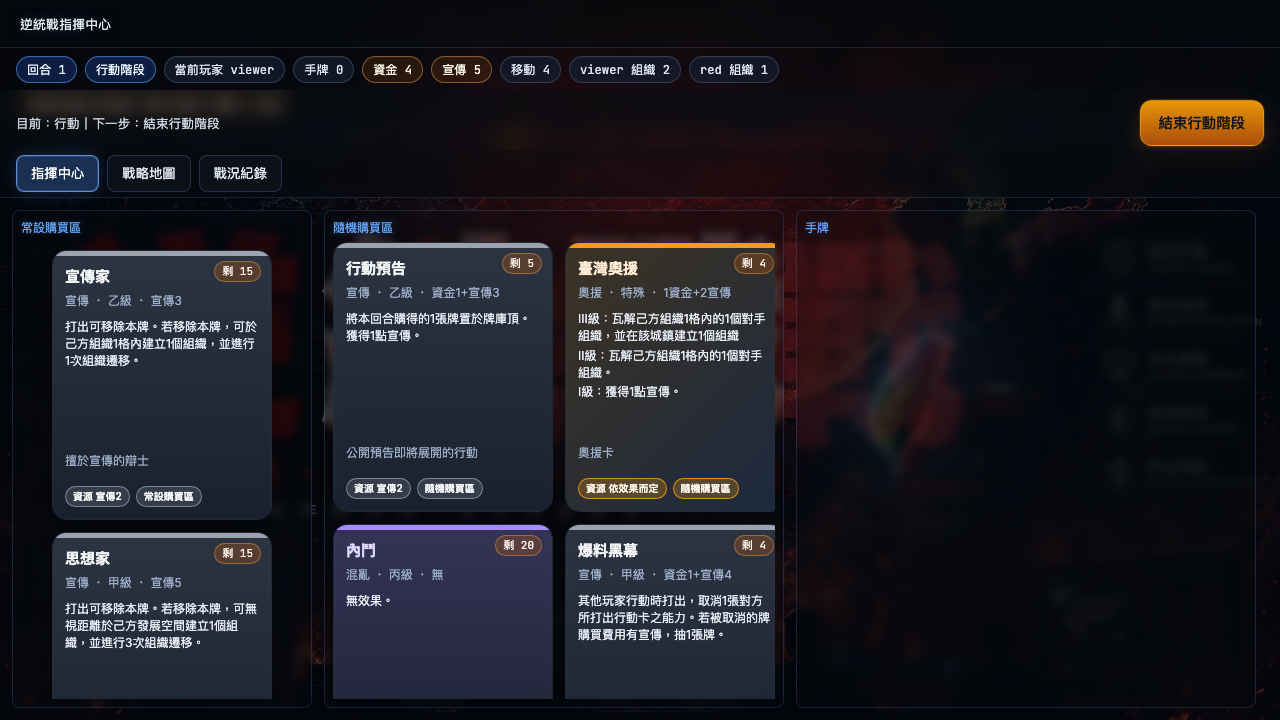
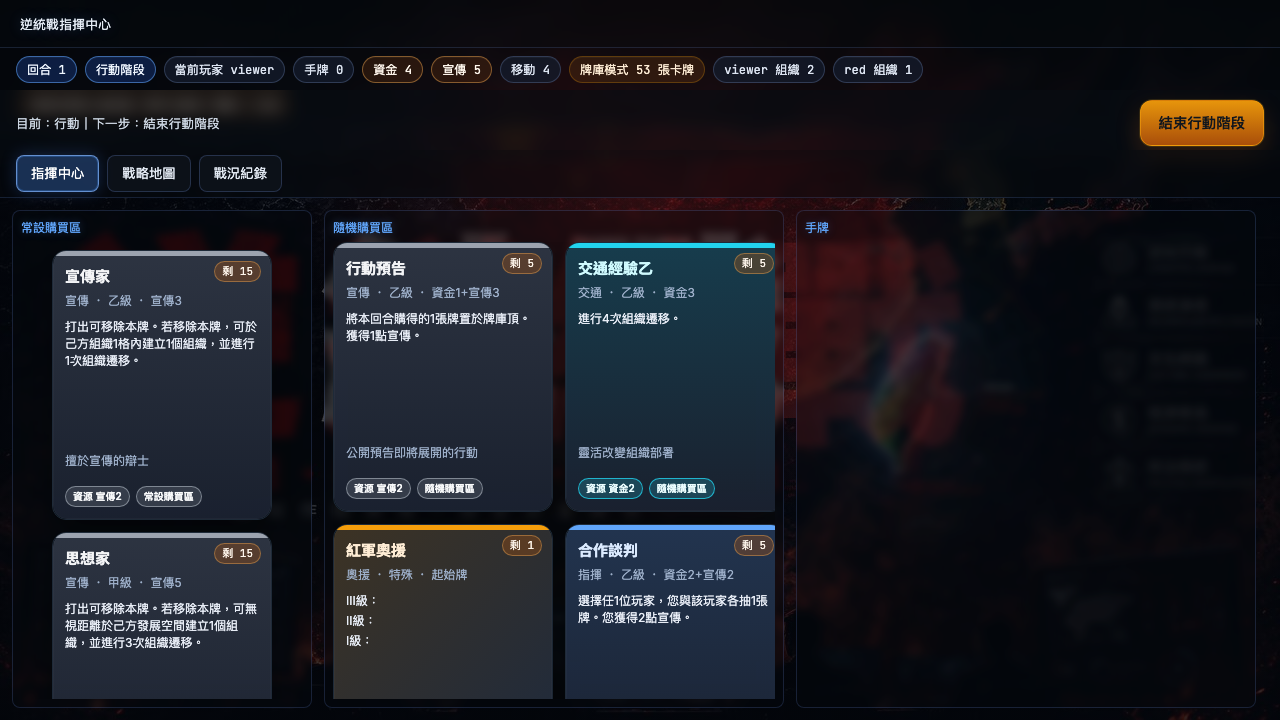
Show market mode in HUD and refresh verification

Changed region(s): [[0.25, 0.6111, 0.625, 0.9167], [0.4375, 0.3361, 0.625, 0.5806], [0.4375, 0.0611, 0.7188, 0.1222]]

diff --git a/static/app.js b/static/app.js
@@ -1105,6 +1105,7 @@ async function render(state) {
       return `<span class="hud-era-pill">${escapeHtml(item.name)}｜條件已達成｜${escapeHtml(remainText)}</span>`;
     }).join('');
 
+    const marketModeLabel = state.market_mode === 'all_cards' ? '全部卡牌' : '53 張卡牌';
     hud.innerHTML = `
       <div class="hud-main-row">
         <span class="hud-chip hud-chip-primary">回合 ${state.turn}</span>
@@ -1114,6 +1115,7 @@ async function render(state) {
         <span class="hud-chip hud-chip-resource">資金 ${myMoney}</span>
         <span class="hud-chip hud-chip-resource">宣傳 ${myPropaganda}</span>
         <span class="hud-chip">移動 ${myMoves}</span>
+        <span class="hud-chip hud-chip-market">牌庫模式 ${marketModeLabel}</span>
         ${orgInfo}
       </div>
       ${eraStatus ? `<div class="hud-era-row">${eraStatus}</div>` : ''}

diff --git a/static/style.css b/static/style.css
@@ -251,6 +251,12 @@ body {
   color: #fff7ed;
 }
 
+.hud-chip-market {
+  border-color: rgba(245, 158, 11, 0.26);
+  background: rgba(92, 50, 12, 0.38);
+  color: #ffedd5;
+}
+
 #gameShell {
   position: absolute;
   left: 0;
